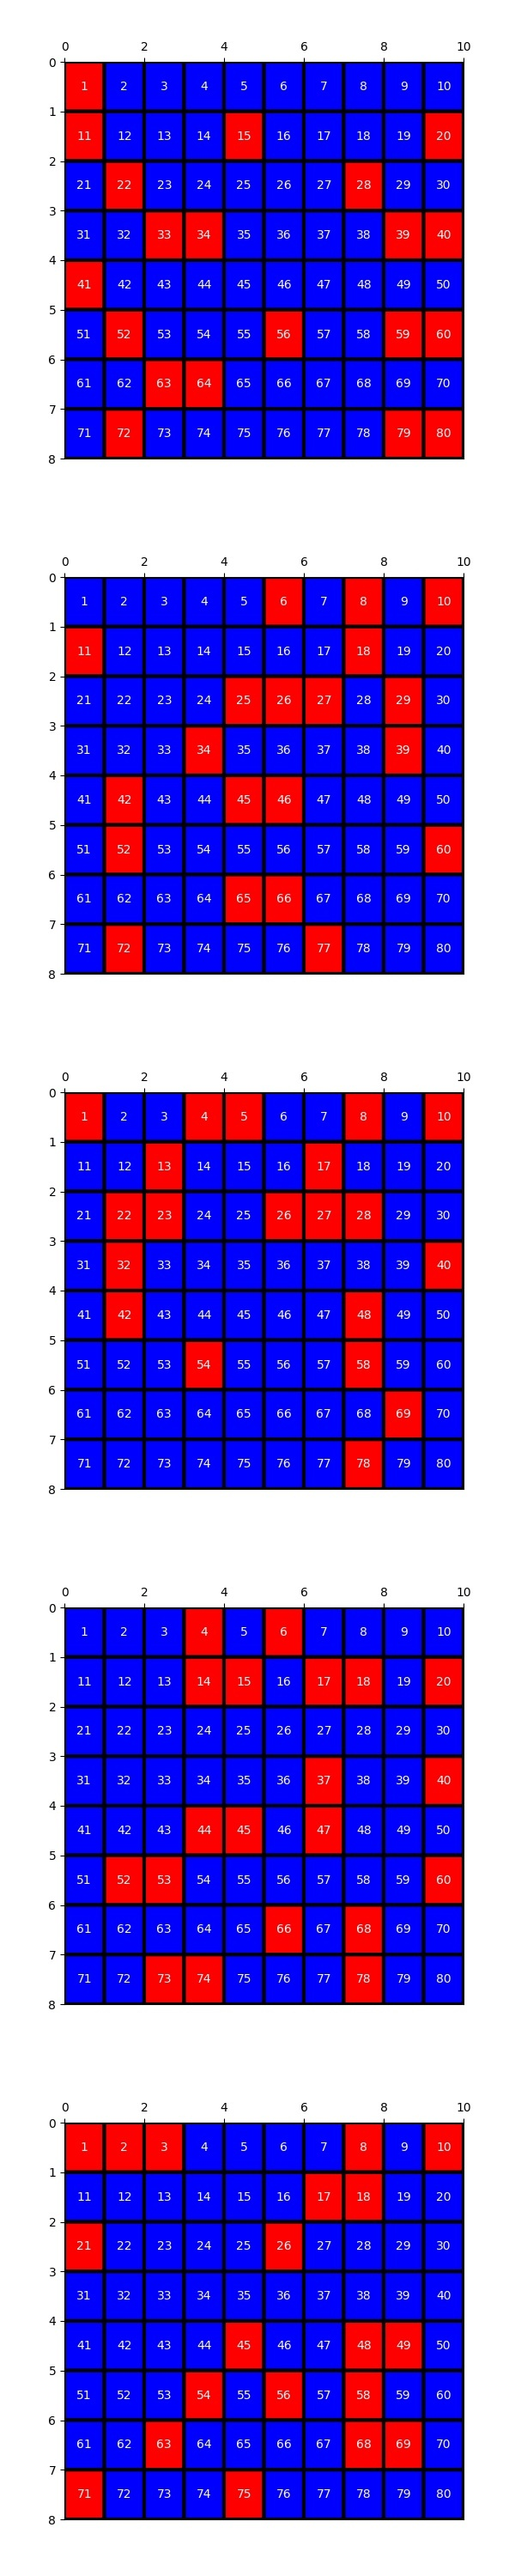
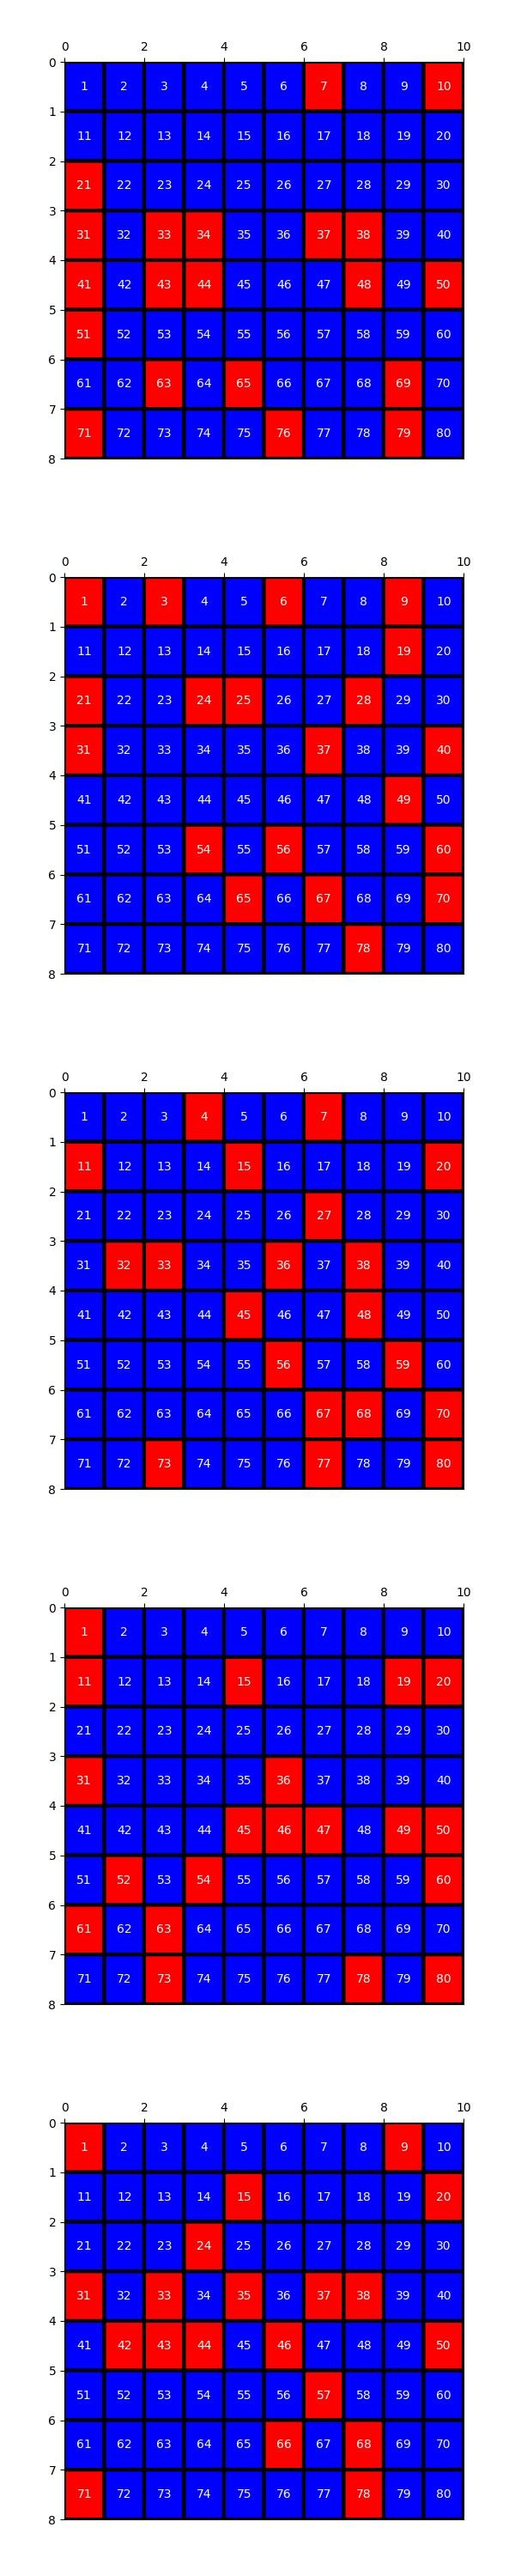
ver add

diff --git a/templates/bingo_ok.html b/templates/bingo_ok.html
@@ -12,7 +12,8 @@
 <body>
     <div class="w3-center">
         <form action="" enctype='multipart/form-data' method='POST'>
-            <input id="target" name="target" type="number" class="w3-input w3-center" style="margin-bottom:5px;width:100%" value="{{target}}">
+            虛擬下注:<input id="v_num" name="v_num" class="w3-input w3-center" style="margin-bottom:5px;width:100%" value="10,20,30">
+            分析組數:<input id="target" name="target" type="number" class="w3-input w3-center" style="margin-bottom:5px;width:100%" value="{{target}}">
             <input type="submit" value="分析" class="w3-button w3-red" style="margin-top:5px;width:100%"/>
         </form>
     </div>
@@ -21,9 +22,9 @@
     <div id="Demo1" class="w3-hide w3-container">
         <p>{{userinput|safe}}</p>
     </div>
-    <button onclick="myFunction('Demo2')" class="w3-button w3-block w3-blue w3-left-align">熱門球號</button>
+    <button onclick="myFunction('Demo2')" class="w3-button w3-block w3-blue w3-left-align">虛擬下注</button>
     <div id="Demo2" class="w3-hide w3-container">
-        <p>{{connum1|safe}}</p>
+        <p>{{v_text|safe}}</p>
     </div>
     <button onclick="myFunction('Demo3')" class="w3-button w3-block w3-blue w3-left-align">熱門2球號</button>
     <div id="Demo3" class="w3-hide w3-container">
@@ -33,6 +34,11 @@
     <div id="Demo4" class="w3-hide w3-container">
         <p>{{connum3|safe}}</p>
     </div>
+    <button onclick="myFunction('Demo5')" class="w3-button w3-block w3-blue w3-left-align">組間分析</button>
+    <div id="Demo5" class="w3-hide w3-container">
+        <p>{{spilt_num|safe}}</p>
+    </div>
+
     
     <p>熱門球號圖：</p>
     <img src="{{ url_for('static', filename= './images/test1.jpg') }}"  alt="" style="width:100%"/>

diff --git a/templates/bingo.html b/templates/bingo.html
@@ -13,7 +13,8 @@
  
     <div class="w3-center">
         <form action="" enctype='multipart/form-data' method='POST'>
-            <input id="target" type="number" name="target" class="w3-input w3-center" style="margin-bottom:5px;width:100%" value="0">
+            虛擬下注:<input id="v_num" name="v_num" class="w3-input w3-center" style="margin-bottom:5px;width:100%" value="10,20,30">
+            分析組數:<input id="target" type="number" name="target" class="w3-input w3-center" style="margin-bottom:5px;width:100%" value="0">
             <input type="submit" value="分析" class="w3-button w3-red" style="margin-top:5px;width:100%"/>
         </form>
     </div>

diff --git a/app.py b/app.py
@@ -22,6 +22,7 @@ app.send_file_max_age_default = timedelta(seconds=1)
 def bingo():
     if request.method == 'POST':
         target = int(request.form.get('target'))
+        v_num = str(request.form.get('v_num'))
         res  = requests.get("https://www.taiwanlottery.com.tw/lotto/bingobingo/drawing.aspx")
         soup = BeautifulSoup(res.text,'html.parser')
         table = soup.find('table', attrs={'class':'tableFull'})
@@ -42,13 +43,6 @@ def bingo():
             target = len(num_data)
 
 
-        #一球熱門號碼
-        array1_all = []
-        for i in range(target):
-            for num in range(20):
-                array1_all.append(num_data[i][num])
-        d1 = Counter(array1_all)
-        sorted_x1 = sorted(d1.items(), key=lambda x1: x1[1], reverse=True)
         #二球熱門組合
         array2_all = []
         array2_temp = []
@@ -124,8 +118,67 @@ def bingo():
         v_img = cv2.vconcat([img0,img1,img2,img3,img4])
         cv2.imwrite("static/images/test2.jpg",v_img)
 
+        #組間分析
+        A_spilt_num = 0
+        B_spilt_num = 0
+        C_spilt_num = 0
+        D_spilt_num = 0
+        A_score = 0
+        B_score = 0
+        C_score = 0
+        D_score = 0
+        for k in range(target):
+            A_spilt_num_s = 0
+            B_spilt_num_s = 0
+            C_spilt_num_s = 0
+            D_spilt_num_s = 0
+            for i in range(80):
+                if i in num_data[k] and i<20:
+                    A_spilt_num = A_spilt_num +1
+                    A_spilt_num_s = A_spilt_num_s +1
+                if i in num_data[k] and i>=20 and i<40:
+                    B_spilt_num = B_spilt_num +1 
+                    B_spilt_num_s = B_spilt_num_s +1         
+                if i in num_data[k] and i>=41 and i<60:
+                    C_spilt_num = C_spilt_num +1
+                    C_spilt_num_s = C_spilt_num_s +1  
+                if i in num_data[k] and i>=61 and i<80:
+                    D_spilt_num = D_spilt_num +1 
+                    D_spilt_num_s = D_spilt_num_s +1  
 
-        return render_template('bingo_ok.html',target=target,userinput=user_input,connum1=str(sorted_x1),connum2=str(sorted_x2),connum3=str(sorted_x3))
+            temp_array = [A_spilt_num_s,B_spilt_num_s,C_spilt_num_s,D_spilt_num_s]
+            temp_array= sorted(temp_array,reverse=True)
+
+            for i in range(4):
+                if A_spilt_num_s == temp_array[i]:
+                    A_score = A_score + 3-i
+                if B_spilt_num_s == temp_array[i]:
+                    B_score = B_score + 3-i
+                if C_spilt_num_s == temp_array[i]:
+                    C_score = C_score + 3-i
+                if D_spilt_num_s == temp_array[i]:
+                    D_score = D_score + 3-i
+
+        spilt_num = "綜合</br>A組(1~20):"+str(A_spilt_num)+"</br>"+"B組(21~40):"+str(B_spilt_num)+"</br>"+"C組(41~60):"+str(C_spilt_num)+"</br>"+"D組(61~80):"+str(D_spilt_num)+"</br>"
+        spilt_num = "</br>"+spilt_num+"</br>分次</br>A組(1~20):"+str(A_score)+"</br>"+"B組(21~40):"+str(B_score)+"</br>"+"C組(41~60):"+str(C_score)+"</br>"+"D組(61~80):"+str(D_score)+"</br>"
+
+        #虛擬下注
+        v_num = v_num.split(',')
+        v_num = list(map(int, v_num))
+        v_text = ""
+        for k in range(target):
+            bingo_result = 0
+            for i in range(3):
+                if v_num[i] in num_data[k]:
+                    bingo_result = bingo_result + 1
+            v_text = v_text + "第"+str(k+1)+"組:中"+str(bingo_result)+"星</br>"
+                
+                    
+            
+
+
+
+        return render_template('bingo_ok.html',target=target,userinput=user_input,connum2=str(sorted_x2),connum3=str(sorted_x3),spilt_num=str(spilt_num),v_text=v_text)
  
     return render_template('bingo.html')
  

diff --git a/app copy.py b/app copy.py
@@ -1,0 +1,4 @@
+v_num ="10,20,30"
+v_num = v_num.split(',')
+v_num = list(map(int, v_num))
+print(v_num)
